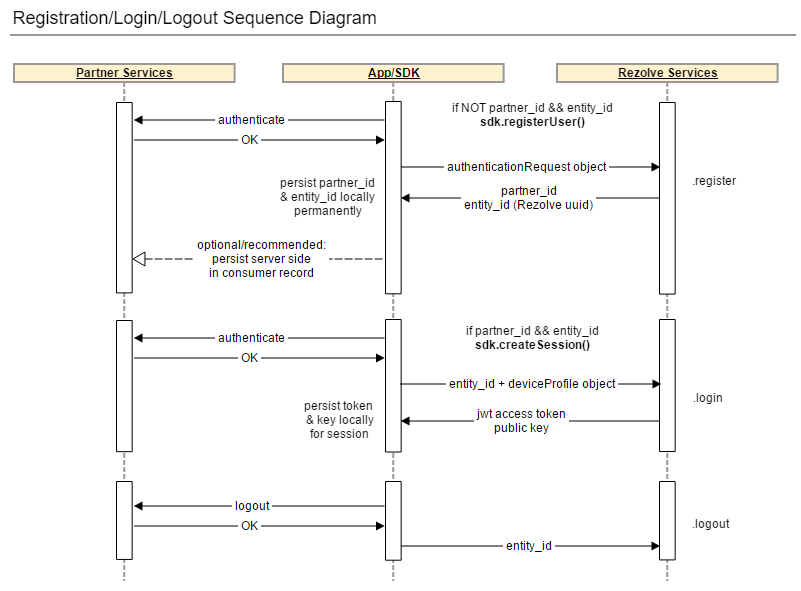
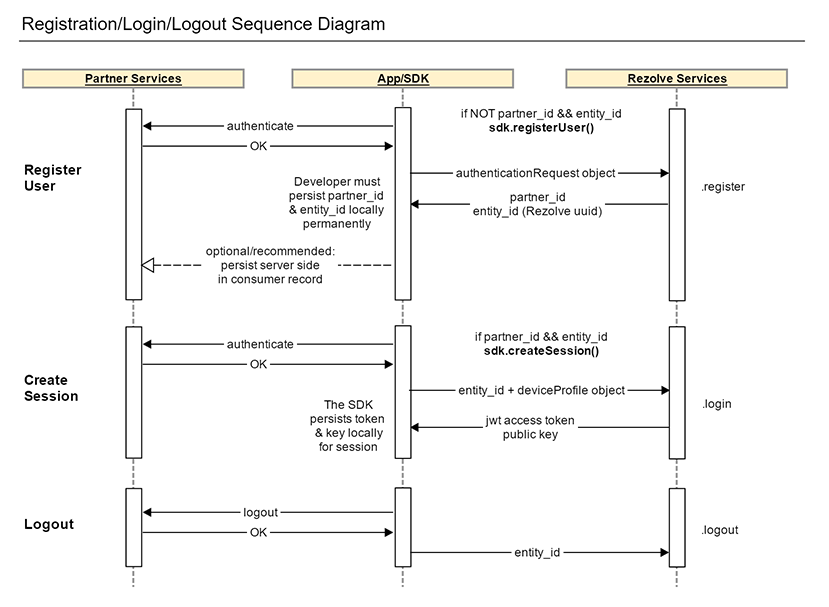
Added sequence diagrams and flow descriptions for Instant Purchase and Top Up

diff --git a/source/index.html.md b/source/index.html.md
@@ -72,7 +72,7 @@ TODO: do we need to import anythinng per file, or otherwise set up the framework
 
 The Android SDK is distributed as an .aar library. This makes it easy to import Rezolve capabilities into your app. The steps are as follows:
 
-1. For this demo, the project **test.example.com** has been created.<br/><img src="images/01newproj.png" style="margin:6px 0;"><br/><br/>
+1. For this demo, the project **test.example.com** has been created.<br/><br/>
 2. In your project, go to File > New Module... <br/><img src="images/02newmodule.png" style="margin:6px 0;"><br/><br/>
 3. ... and choose Import JAR/.AAR Package. Hit Next. <br/><img src="images/03importaar.png" style="margin:6px 0;"><br/><br/>
 4. Select the SDK file you downloaded, and click Finish. File name may differ from what is shown in screenshot. <br/><img src="images/04pickaar.png" style="margin:6px 0;"><br/><br/>
@@ -81,7 +81,7 @@ The Android SDK is distributed as an .aar library. This makes it easy to import 
 TODO: verify install instructions with Adam.
 TODO: anything to import per file to use functions?
 
-# App Flows
+# SDK Feature Use
 
 This section describes the intended usage of the SDK to build specific feature-related functionalities.
 
@@ -90,29 +90,34 @@ This section describes the intended usage of the SDK to build specific feature-r
 ``` objective_c
 import RezolveSDK
 
-let API_KEY: String = "ABC123"           //substitute your api key here
+...
 
+let API_KEY: String = "ABC123"           //substitute your api key here
 let sdk: RezolveSDK = RezolveSDK(apiKey: API_KEY, env: .Development)
+
+// possible values for env: enum are .Development , .Sandbox, and .Production
 ```
 ```java
 import com.rezolve.sdk.RezolveSDK;
 
+...
+
 private final static String API_KEY = "ABC123";
 
-RezolveSDK.getInstance(API_KEY,RezolveEnv.Development);
+RezolveSDK sdk = RezolveSDK.getInstance(API_KEY, RezolveSDK.Env.DEVELOPMENT);
+
+// possible values for RezolveSDK.Env enum are .DEVELOPMENT , .SANDBOX, and .PRODUCTION
 ```
 
 To get started, import the SDK into your file, and initialize it. When initializing the SDK in your page, you must specify your `API Key`, and the `server environment` you are targeting. 
 
 Your `API Key` is supplied to you upon signup with Rezolve.
 
-Your `server environment` is an enum with one of the following values: `Development`, `Sandbox`, or `Production`
+Your `server environment` is an enum. See values, right.
 
 TODO Marcos verify
 
 TODO Adam verify
-
-
 
 
 ##  User Management, Session Management
@@ -120,11 +125,12 @@ TODO Adam verify
 For the purpose of the SDK, it is assumed the partner has an existing community of consumers, and has a method of authenticating them in the partner app. It is further assumed the partner wishes to introduce their consumes to Rezolve capabilities. Each partner consumer that wishes to utilize Rezolve services will need a Rezolve account.
 
 This section will describe how to:
+
 1. Register a Rezolve user via the SDK
 2. Create a Session for that user
 3. When the user is done, log them out
 
-<img src="images/loginsequencediagram.png" style="margin:6px 0;">
+<img src="images/loginsequencediagram.png" style="margin:6px 0;"><br/>[ <a href="images/loginsequencediagram.png">View full size</a> ]
 
 ### Register User
 
@@ -151,6 +157,7 @@ To register a user, you will need to call the sdk `registerUser` method, passing
 
 ```objective_c
 let request: AuthenticationRequest = authenticationRequest()
+// TODO populate authenticationRequest object
 
 let sdk: RezolveSDK = RezolveSDK(apiKey: API_KEY, env: .Development)
 
@@ -159,48 +166,122 @@ sdk.registerUser(authenticationRequest: request) {  (entityId, partnerId) in
 }
 ```
 ```java
-TODO need example
+private final static String API_KEY = "ABC123";
+
+RezolveSDK sdk = RezolveSDK.getInstance(API_KEY, RezolveSDK.Env.DEVELOPMENT);
+
+AuthenticationRequest myAuthenticationRequest = new AuthenticationRequest.Builder()
+.email("b")
+.firstName("d")
+.lastName("e")
+.name("h")
+.device(new DeviceProfile("12345", "Samsung", "UK"))
+.build();
+
+sdk.registerUser(myAuthenticationRequest, this);
+
+//TODO catch response
 ```
 The `registerUser` method is used as shown to the right. Upon successful registration, the response will contain a `partner_id` and an `entity_id`. **Persist both these values for the life of the app.**
 
-You will know if you need to call `registerUser` instead of `createSession` if either `partner_id` or `entity_id` are null or blank.
-
 <aside class="notice">
+You will know if you need to call `registerUser` instead of `createSession` if either `partner_id` or `entity_id` are null or blank.
+</aside>
+
+<aside class="alert">
 It is recommended that <code>entity_id</code> and <code>partner_id</code> be persisted to the partner server. If these values are stored server side, a consumer who uninstalls the app and reinstalls will be able to retain their history and settings. Without this info, their account cannot be reassociated after install.
 </aside>
 
 
 ### Create Session
-To get the SDK talking to backend services, you must establish a session. A session combines several  functions, and abstracts them from the developer:
+To log in and interact with Rezolve services, you must establish a session. A session combines several functions, and abstracts them from the developer:
 * Verifies the validity of the mobile app, through the API key
-* Creates the consumer account, if one doesn't exist
-* Identifies the consumer and pairs them with a partner-supplied session token, and assigns them a Rezolve session token
-* Verifies each request from the mobile app
-
+* Identifies the consumer and pairs them with a session token
+* Verifies each request from the mobile app by passing API Key and session token
+* establishes a public key for the session, for encrypting transmitted credit card info
 
 ``` objective_c
-stuff
+let request: AuthenticationRequest = authenticationRequest()
+// TODO populate authenticationRequest object
+
+let sdk: RezolveSDK = RezolveSDK(apiKey: API_KEY, env: .Development)
+
+sdk.createSession(authenticationRequest: request) { (session: RezolveSession) in
+	// begin interacting with features
+}
 ```
 ```java
-stuff
+private final static String API_KEY = "ABC123";
+private RezolveSession rezolveSession;
+
+RezolveSDK sdk = RezolveSDK.getInstance(API_KEY, RezolveSDK.Env.DEVELOPMENT);
+
+
+
+
 ```
- Once the user is authenticated on the partner side, make a call to `createSession{}`. The first time `createSession{}` is called, it will create a Rezolve user account, and return an `entity_id` (Rezolve user id) and a `partner_id`. These values should be persisted locally for the life of the app, and if possible, stored server side on the partner server. 
-
-
-
-To create a session, you must pass 
+Once the user is authenticated on the partner side, make a call to `createSession{}`, passing in the `entity_id`. The server will respond with a session authentication token, and a session public key. The SDK takes care of managing these for the session. The auth token is used to authenticate each request from the client, while the public key is used for encrypting the transmission of sensitive information for this session.
 
 ### Logout Session
 
-## Profile Management 
+Logging a user out is as simple as passing the `entity_id` to the logout method.
 
-## Topup flow
+## Consumer Profile Management
 
-## Scan to buy flow
+Once logged in, you have access to the consumer's records. These include:
+* Consumer Profile - Name, email, and device profile (phone info) for the consumer
+* Address Book - A collection of postal addresses, to be used for ship-to and bill-to purposes.
+* Favorites - A collection of devices that can be topped up.  A favorite can represent a mobile phone, a tollway transponder, or other device/account.
+* Wallet - Wallet lets you store credit card info securely, and lets the consumer maintain the list of cards. There can be multiple cards.
 
-## Checkout flow
+There are no specific flows to consider when managing the customer profile and assicated records. The consumer profile itself supports only update... no add or delete. 
 
-# Modules
+Address Book, Favorites, and Wallet all support standard CRUD operations. 
+
+## Instant buy flow
+
+<img src="images/Instant%20Purchase%20flow.png" style="margin:6px 0;"><br/>[ <a href="images/Instant%20Purchase%20flow.png">View full size</a> ]
+
+The premise of instant purchase is to capture an image scan (usually of an advertisement) with the smartphone, resolve it into a product URL, fetch the product info, and enable purchase via saved account information.
+
+First, enable the scan screen, and capture a watermarked image. The Digimarc SDK will extract a Digimarc id from the image. Use the Digimarc SDK to fetch the "payoff" URL associated with the id from the Digimarc server. This url will point to a getProduct API endpoint.
+
+Use the SDK `getProduct` call to retrieve product information. The `partner_id`, `merchant_id`, `catalog_id` and `product_id` will be in the URL received from Digimarc; the body of the request can be empty.  The response will include the title, price, description, variant choices, and images for the product.
+
+Once you have product information, call the SDK `checkoutOrder` method. Pass in the merchant, type, delivery address id, loyalty info (if any), geolocation if available, and finally the information on the desired product, including variant choices.  The response will include an order id, final total price, and a price breakdown (composed of base price, variant price premium if any, shipping, and tax). 
+
+If the consumer agrees with the price and wishes to complete the order, use `walletService.getAll` to list the available card choices. The consumer will choose a payment card.
+
+At this point, we recommend using a "slide to buy" button to confirm purchase intent, while preserving the maximum ease of use.
+
+When the user confirms intent, pass the card choice and the entered CVV value to the `buyOrder` method. The response will contain either an order confirmation with receipt info, or if rejected, an error with the reason for the order rejection.
+
+## Top Up flow
+
+<img src="images/Topup%20Flow.png" style="margin:6px 0;"><br/>[ <a href="images/Topup%20Flow.png">View full size</a> ]
+
+The top up flow gives the mobile consumer the ability to add money to a remote account that is linked with a specific device, such as a mobile phone or tollway transponder. The consumer must have first added the topup device (called a Favorite) to their account, using the `favouriteService.create` method. Once there is one or more favorites, use the `favouriteService.getAll` method to list them. The customer will choose a favorite.
+
+The customer then wants to see a list of top up amounts. To accomplish this, we use the `getProducts` method, passing in a fixed category id. Note that each top up amount is stored in the catalog as a separate product with it's own SKU.
+
+Display the list of top up choices. You can display each "product" as a currency amount, or utilize the "description" field of the product to give more information about the topup. It depends on your application. The consumer will choose a top up amount.
+
+When you have the product choice, call the SDK `checkoutOrder` method. Pass in the merchant, type, delivery address id, loyalty info (if any), geolocation if available, and finally the information on the chosen product.  The response will include an order id, final total price, and a price breakdown (composed of base price, shipping, and tax).
+
+If the consumer agrees with the price and wishes to complete the order, use `walletService.getAll` to list the available card choices. The consumer will choose a payment card.
+
+At this point, we recommend using a "slide to buy" button to confirm purchase intent, while preserving the maximum ease of use.
+
+When the user confirms intent, pass the card choice and the entered CVV value to the `buyOrder` method. The response will contain either an order confirmation with receipt info, or if rejected, an error with the reason for the order rejection.
+
+
+# Error Handling
+
+
+
+
+
+# Module Reference Docs
 
 ## Customer
 
@@ -211,159 +292,4 @@ To create a session, you must pass
 ### Log out customer
 
 ## Shop
-
-
-
-# Errors
-
-# Kitten API Examples
-
-> To authorize, use this code:
-
-``` objective_c
-require 'kittn'
-
-api = Kittn::APIClient.authorize!('meowmeowmeow')
-```
-
-```java
-import kittn
-
-api = kittn.authorize('meowmeowmeow')
-```
-
-
-> Make sure to replace `meowmeowmeow` with your API key.
-
-Kittn uses API keys to allow access to the API. You can register a new Kittn API key at our [developer portal](http://example.com/developers).
-
-Kittn expects for the API key to be included in all API requests to the server in a header that looks like the following:
-
-`Authorization: meowmeowmeow`
-
-<aside class="notice">
-You must replace <code>meowmeowmeow</code> with your personal API key.
-</aside>
-
-# Kittens
-
-## Get All Kittens
-
-```ruby
-require 'kittn'
-
-api = Kittn::APIClient.authorize!('meowmeowmeow')
-api.kittens.get
-```
-
-```python
-import kittn
-
-api = kittn.authorize('meowmeowmeow')
-api.kittens.get()
-```
-
-```shell
-curl "http://example.com/api/kittens"
-  -H "Authorization: meowmeowmeow"
-```
-
-```javascript
-const kittn = require('kittn');
-
-let api = kittn.authorize('meowmeowmeow');
-let kittens = api.kittens.get();
-```
-
-> The above command returns JSON structured like this:
-
-```json
-[
-  {
-    "id": 1,
-    "name": "Fluffums",
-    "breed": "calico",
-    "fluffiness": 6,
-    "cuteness": 7
-  },
-  {
-    "id": 2,
-    "name": "Max",
-    "breed": "unknown",
-    "fluffiness": 5,
-    "cuteness": 10
-  }
-]
-```
-
-This endpoint retrieves all kittens.
-
-### HTTP Request
-
-`GET http://example.com/api/kittens`
-
-### Query Parameters
-
-Parameter | Default | Description
---------- | ------- | -----------
-include_cats | false | If set to true, the result will also include cats.
-available | true | If set to false, the result will include kittens that have already been adopted.
-
-<aside class="success">
-Remember — a happy kitten is an authenticated kitten!
-</aside>
-
-## Get a Specific Kitten
-
-```ruby
-require 'kittn'
-
-api = Kittn::APIClient.authorize!('meowmeowmeow')
-api.kittens.get(2)
-```
-
-```python
-import kittn
-
-api = kittn.authorize('meowmeowmeow')
-api.kittens.get(2)
-```
-
-```shell
-curl "http://example.com/api/kittens/2"
-  -H "Authorization: meowmeowmeow"
-```
-
-```javascript
-const kittn = require('kittn');
-
-let api = kittn.authorize('meowmeowmeow');
-let max = api.kittens.get(2);
-```
-
-> The above command returns JSON structured like this:
-
-```json
-{
-  "id": 2,
-  "name": "Max",
-  "breed": "unknown",
-  "fluffiness": 5,
-  "cuteness": 10
-}
-```
-
-This endpoint retrieves a specific kitten.
-
-<aside class="warning">Inside HTML code blocks like this one, you can't use Markdown, so use <code>&lt;code&gt;</code> blocks to denote code.</aside>
-
-### HTTP Request
-
-`GET http://example.com/kittens/<ID>`
-
-### URL Parameters
-
-Parameter | Description
---------- | -----------
-ID | The ID of the kitten to retrieve
 
